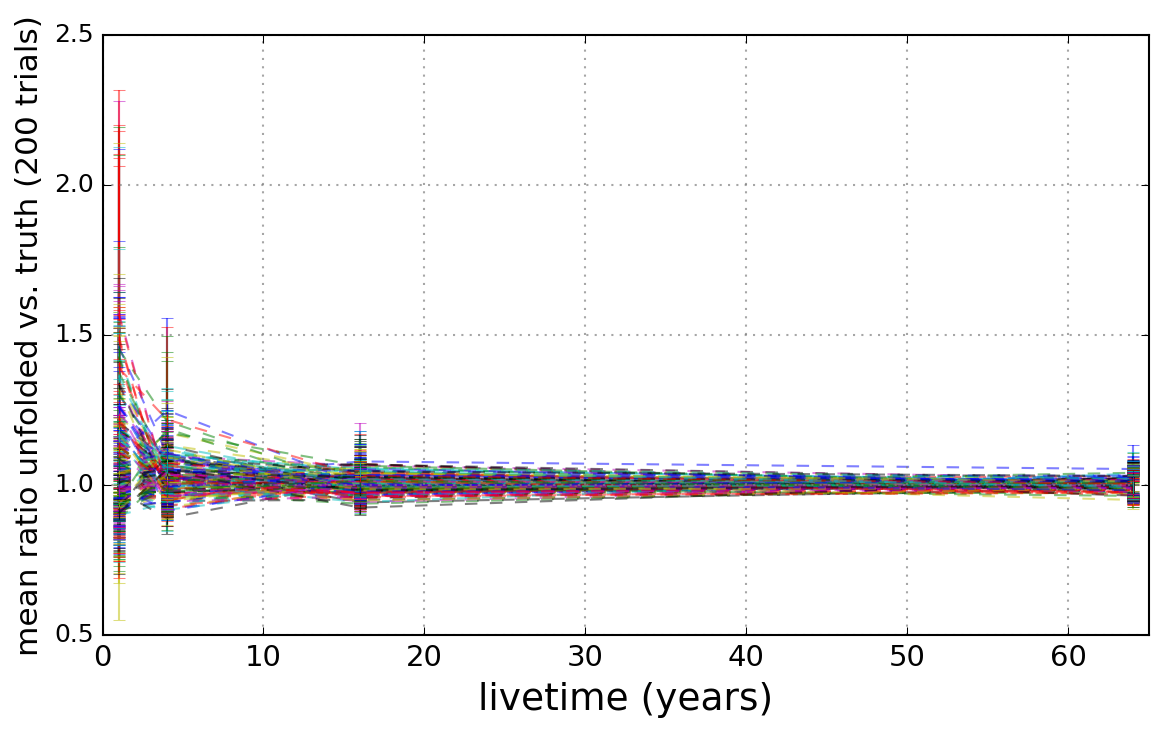
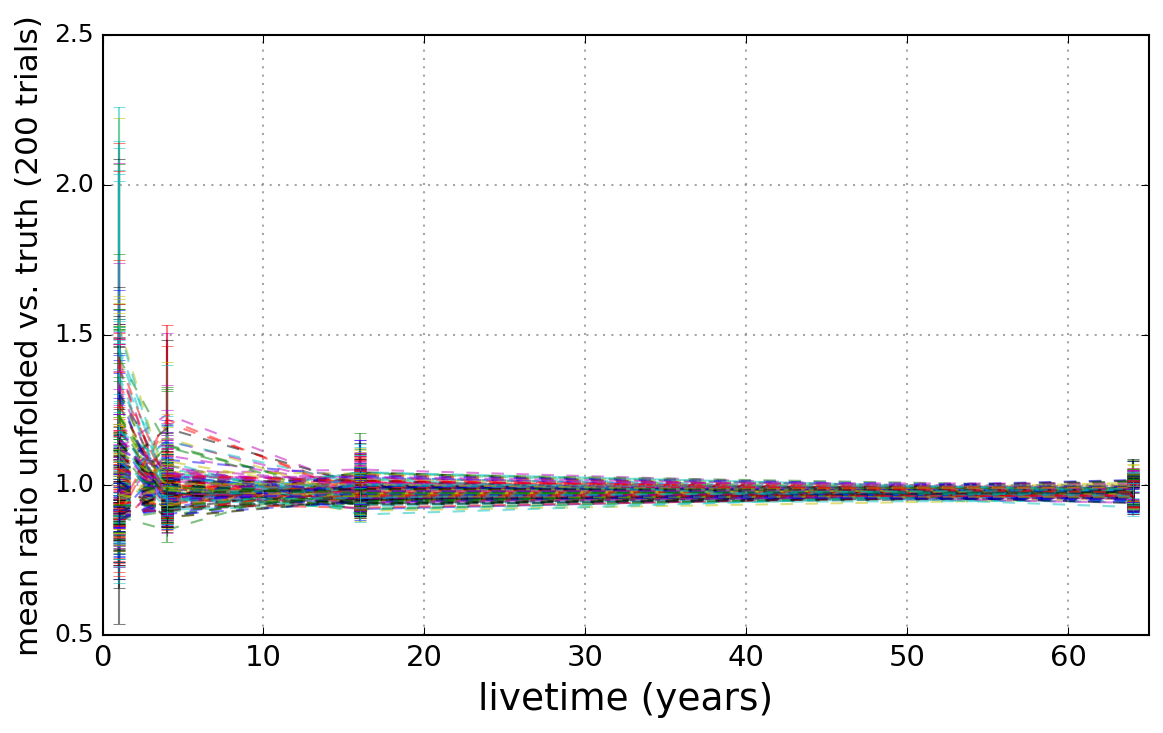
Tue Jan  3 01:49:50 GMT 2017

Changed region(s): [[0.0929, 0.3902, 0.9905, 0.8104], [0.0929, 0.1501, 0.1238, 0.2401], [0.0929, 0.3302, 0.1238, 0.3602]]

diff --git a/i3_to_hdf5.py b/i3_to_hdf5.py
@@ -11,7 +11,7 @@ import numpy as np
 import h5py
 
 import icecube
-from icecube import dataclasses, dataio
+from icecube import dataclasses, dataio, genie_icetray
 
 
 class FullPaths(argparse.Action):
@@ -93,6 +93,9 @@ def load_file(path, s_parms, nu_frac=1.):
         interaction = frame['I3MCWeightDict']['InteractionType']
         volume = frame['I3MCWeightDict']['GeneratorVolume']
 
+        GENIE_x = frame['I3GENIEResultDict']['x']
+        GENIE_y = frame['I3GENIEResultDict']['y']
+
         parms['energy'].append(energy)
         parms['coszen'].append(coszen)
         parms['azimuth'].append(azimuth)
@@ -100,13 +103,15 @@ def load_file(path, s_parms, nu_frac=1.):
         parms['oneweight'].append(oneweight)
         parms['interaction'].append(interaction)
         parms['volume'].append(volume)
+        parms['GENIE_x'].append(GENIE_x)
+        parms['GENIE_y'].append(GENIE_y)
     return parms
 
 def main():
     args = parse_args()
 
     s_parms = ['energy', 'coszen', 'azimuth', 'ptype', 'oneweight',
-             'interaction', 'volume']
+               'interaction', 'volume', 'GENIE_x', 'GENIE_y']
     parms = {}
     for p in s_parms:
         parms[p] = []

diff --git a/livetime_perbin.py b/livetime_perbin.py
@@ -44,8 +44,8 @@ if __name__ == '__main__':
         template_maker.update_params(re_param)
         template_maker.update_params(sf_param)
         fe = []
-        # for x in xrange(200):
-        for x in xrange(5):
+        for x in xrange(200):
+        # for x in xrange(5):
             temp_out = template_maker.get_outputs(return_sum=False)[0].pop()
             nan_mask = nom_out.hist < 0.0001
             div = temp_out.hist[~nan_mask] / nom_out.hist[~nan_mask]
@@ -93,4 +93,4 @@ if __name__ == '__main__':
         ax.axhline(y=ymaj, ls=':', color='gray', alpha=0.7, linewidth=1)
     for xmaj in ax.xaxis.get_majorticklocs():
         ax.axvline(x=xmaj, ls=':', color='gray', alpha=0.7, linewidth=1)
-    fig.savefig('./images/perbin/test.png', bbox_inches='tight', dpi=150)
+    fig.savefig('./images/perbin/greco.png', bbox_inches='tight', dpi=150)

diff --git a/livetime_perpe.py b/livetime_perpe.py
@@ -45,8 +45,8 @@ if __name__ == '__main__':
         template_maker.update_params(re_param)
         template_maker.update_params(sf_param)
         fe = []
-        # for x in xrange(200):
-        for x in xrange(5):
+        for x in xrange(200):
+        # for x in xrange(5):
             temp_out = template_maker.get_outputs(return_sum=False)[0].pop()
             nan_mask = nom_out.hist < 0.0001
             div = temp_out.hist[~nan_mask] / nom_out.hist[~nan_mask]
@@ -95,4 +95,4 @@ if __name__ == '__main__':
         ax.axhline(y=ymaj, ls=':', color='gray', alpha=0.7, linewidth=1)
     for xmaj in ax.xaxis.get_majorticklocs():
         ax.axvline(x=xmaj, ls=':', color='gray', alpha=0.7, linewidth=1)
-    fig.savefig('./images/perpe/test.png', bbox_inches='tight', dpi=150)
+    fig.savefig('./images/perpe/leesard.png', bbox_inches='tight', dpi=150)
